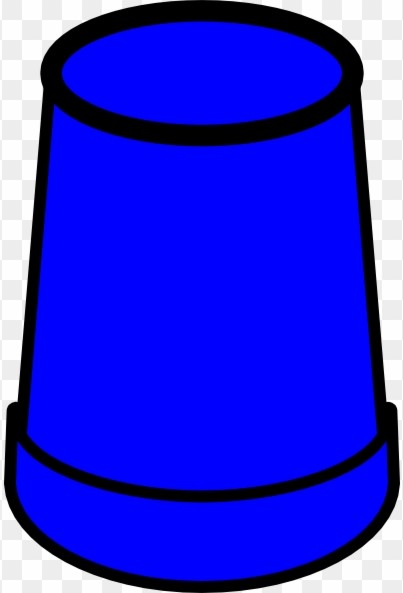
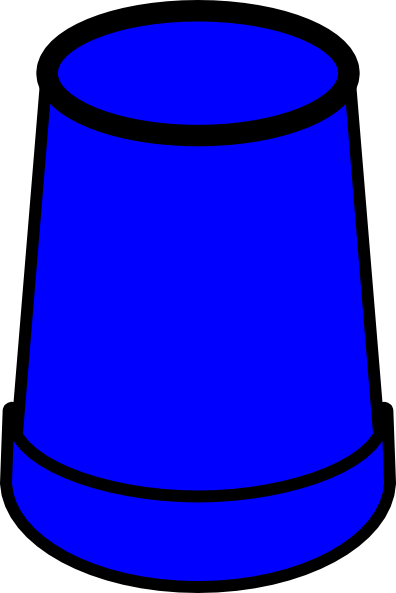
upload transparent background

diff --git a/client/src/App.css b/client/src/App.css
@@ -82,10 +82,8 @@ p {
 }
 
 .cup {
-    background-color: white;
     width: 105px;
     height: 154px;
-    border: 3px solid white;
     position: absolute;
     background-size: 100px;
     background-repeat: no-repeat;
